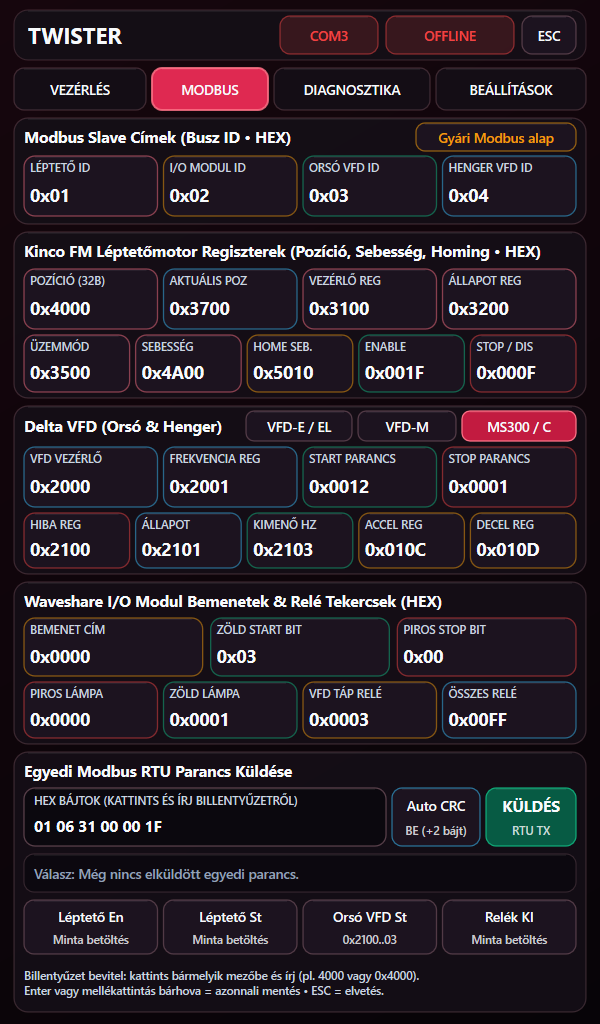
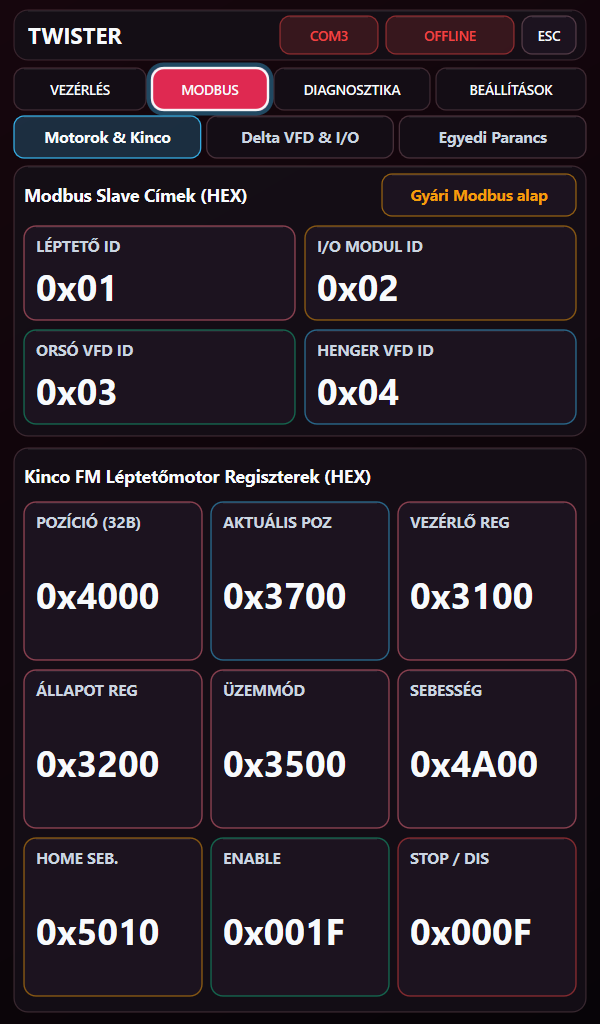
docs: publish README updates and screenshots

Changed region(s): [[0.0, 0.0625, 0.99, 1.0]]

diff --git a/README.md b/README.md
@@ -28,8 +28,18 @@ Nincs felugró képernyő-billentyűzet — közvetlenül a rendes billentyűzet
 3. **Mentéshez két lehetőséged van:**
    - Nyomd meg az **`Enter`** billentyűt, **VAGY**
    - **Kattints bárhová máshová a képernyőn** (egy másik dobozra, másik fülre vagy az üres háttérre).
-   - Mindkét esetben a program azonnal elmenti az új értéket a fájlba, újraszámolja a függő értékeket és kilép a szerkesztésből.
+   - Mindkét esetben **álló gépnél** a program azonnal elmenti az új értéket a fájlba, újraszámolja a függő értékeket és kilép a szerkesztésből.
+   - **Futó program közben** ugyanúgy átírhatsz bármilyen értéket és opciót — ilyenkor a felső sávban sárga **`ZÖLD = KÜLDÉS`** jelzés jelenik meg, és a gép biztonságosan megvárja a fizikai **Zöld gomb** megnyomását (amely RS-485 ütközés nélkül küldi ki és menti el az összes módosítást a futó gépre).
 4. **Mégse (`ESC`):** Ha írás közben **`ESC`**-et nyomsz, elveti a félbehagyott gépelést, és visszaáll a korábbi érték.
+
+### Egyszerűsített billentyűzetes navigáció (`Numpad 8 / 2 / 4 / 6 + Enter`)
+Érintőképernyő és egér mellett **mindig működik** a gyors irányított navigáció (akkor is, ha a NumLock be vagy ki van kapcsolva, vagy sima nyílbillentyűket használsz):
+- **`Numpad 8` (`↑`):** Lépés felfelé a következő gombra / mezőre / fülre.
+- **`Numpad 2` (`↓`):** Lépés lefelé.
+- **`Numpad 4` (`←`):** Lépés balra a sorban.
+- **`Numpad 6` (`→`):** Lépés jobbra a sorban.
+- **`Enter`:** Megnyomja a fehér-kék kerettel kijelölt gombot, átváltja a fület, vagy megnyitja a kijelölt paraméter szerkesztését.
+- **Érték beírása közben nincs ütközés:** amint **`Enter`**-rel (vagy érintéssel) beléptél egy számmezőbe, a **`Numpad 8 / 2 / 4 / 6`** normál számjegyként gépelődik be, az **`Enter`** elmenti és kilép, utána pedig rögtön újra navigálhatsz vele! *(A `PC KI` ablak megnyitásakor az alapértelmezett fókusz biztonságból mindig a `MÉGSE` gombon áll.)*
 
 ![Érték átírása közvetlenül billentyűzetről](docs/images/szerkesztes.png)
 
@@ -40,8 +50,9 @@ Nincs felugró képernyő-billentyűzet — közvetlenül a rendes billentyűzet
 | Elem | Mit mutat / Mit csinál ha rákattintasz? |
 | :--- | :--- |
 | **`TWISTER`** | A program neve. |
-| **`COM3`** *(port gomb)* | Zöld, ha a soros port sikeresen csatlakozva van; piros, ha nem érhető el. Rákattintva rögtön a **`BEÁLLÍTÁSOK`** oldalra ugrik, ahol portot választhatsz. |
-| **Állapotjelző doboz** | A gép pillanatnyi állapota:<br>• **`OFFLINE`** (piros): nincs nyitott soros port<br>• **`KÉSZENLÉT`** (sárga): áll a gép, várja az indítást<br>• **`INDÍTÁS...`** (sárga): relék kapcsolása, frekiváltók bebootolása és felpörgése<br>• **`ÜZEMEL`** (zöld): forognak a motorok és megy a léptetőmotor-ciklus<br>• **`LEÁLLÍTÁS`** (piros): motorok leállítása és léptető Home-ba küldése<br>• **`HIBA`** (piros): hiba történt (pl. port vagy meghajtó hiba — részletek a `DIAGNOSZTIKA` naplóban) |
+| **`COM3`** *(port gomb)* | Zöld, ha a soros port sikeresen csatlakozva van; piros, ha nem érhető el. Rákattintva rögtön a **`BEÁLLÍTÁSOK → Port & RS-485`** aloldalra ugrik, ahol portot választhatsz. |
+| **`ZÖLD = KÜLDÉS`** *(sárga jelző)* | Csak akkor jelenik meg, ha **futó program közben** módosítottál valamit a képernyőn. A fizikai **Zöld gomb** megnyomásáig várakozik a változtatások biztonságos kiküldésével. |
+| **Állapotjelző doboz** | A gép pillanatnyi állapota:<br>• **`OFFLINE`** (piros): nincs nyitott soros port<br>• **`KÉSZENLÉT`** (sárga): áll a gép, várja az indítást<br>• **`INDÍTÁS...`** (sárga): relék ellenőrzése/kapcsolása, frekiváltók bebootolása és felpörgése<br>• **`ÜZEMEL`** (zöld) / **`JÓVÁHAGYÁS?`** (sárga) / **`JÓVÁHAGYVA`** (zöld) / **`VÉGÉN LEÁLL`** (rózsaszín): forognak a motorok és megy a léptetőmotor-ciklus; **`Jóváhagyással`** módban a program vége előtti beállított időnél (`VILLOGÁS ELŐTTE`, alap `5 perc`) **`JÓVÁHAGYÁS?`** látható és villog a zöld lámpa<br>• **`JOG MÓD`** (kék): Piros + Zöld hosszú nyomva tartásával aktív lassú kézi/ellenőrző járatás<br>• **`LEÁLLÍTÁS`** (piros): motorok leállítása és léptető Home-ba küldése<br>• **`HIBA`** (piros): hiba történt (pl. port vagy meghajtó hiba — részletek a `DIAGNOSZTIKA` naplóban) |
 | **`ESC` / `FULL` gomb** | Vált teljes képernyős és ablakos mód között (ugyanazt csinálja, mint az `ESC` billentyű). |
 | **4 fő oldalválasztó fül** | **`VEZÉRLÉS`** • **`MODBUS`** • **`DIAGNOSZTIKA`** • **`BEÁLLÍTÁSOK`** — rákattintva azonnal oldalt vált (ha épp írtál egy mezőbe, előtte elmenti). |
 
@@ -51,13 +62,32 @@ Nincs felugró képernyő-billentyűzet — közvetlenül a rendes billentyűzet
 
 A program folyamatosan figyeli a gép **`0x02`** I/O modulján lévő fizikai Start és Stop gombokat:
 
-### Zöld gomb (`Start`) megnyomása:
-1. Kikapcsolja a piros jelzőlámpát (`0x0000`), felkapcsolja a zöld jelzőlámpát (`0x0001`).
-2. Áramot ad a frekiváltók főkontaktorára (`0x0003`).
-3. **Megvárja, míg a két Delta frekiváltó feléled** és hibamentes készenlétet jelez (`0x2100/0x2101`).
-4. Beírja a beállított felfutási és lefutási időket (ha `> 0 ms`), elküldi a kiszámolt célfrekvenciákat (`0x2001`), majd kiadja az indítás parancsot (`0x2000 = 0x0012`).
-5. **Megvárja, míg mindkét motor ténylegesen felpörög** a célfrekvenciára (`0x2103`).
-6. Csak ezután indítja el a Kinco léptetőmotor ciklusát (`0`-tól `4400` felé).
+### Zöld gomb (`Start / Módosítás küldés`) megnyomása:
+* **Ha áll a gép (`KÉSZENLÉT`):**
+  1. Kikapcsolja a piros jelzőlámpát (`0x0000`), felkapcsolja a zöld jelzőlámpát (`0x0001`).
+  2. **Ellenőrzi (`FC 0x01`)**, hogy a frekiváltók főkontaktora (`0x0003`) be van-e már kapcsolva: ha még ki van kapcsolva, bekapcsolja és megvárja a frekiváltók felállását; ha már áram alatt van, azonnal tovább lép.
+  3. **Ellenőrzi a két Delta frekiváltó hibamentes készenlétét** (`0x2100/0x2101`).
+  4. Beírja a beállított felfutási és lefutási időket (ha `> 0 ms`), elküldi a kiszámolt célfrekvenciákat (`0x2001`), majd kiadja az indítás parancsot (`0x2000 = 0x0012`).
+  5. **Megvárja, míg mindkét motor ténylegesen felpörög** a célfrekvenciára (`0x2103`).
+  6. Csak ezután indítja el a Kinco léptetőmotor ciklusát (`0`-tól `4400` felé).
+* **Ha fut a program (`ÜZEMEL` / `JÓVÁHAGYÁS?` villogás):**
+  - **Menet közbeni változtatások kiküldése:** ha menet közben átírtál fordulatszámot, sodratot, felfutást, léptetőt vagy bármely beállítást, a Zöld gomb egy rövid megnyomása elmenti és RS-485 ütközés nélkül rögtön kiküldi a változtatásokat a futó gépre.
+  - **Ciklus folytatásának jóváhagyása / elutasítása (`Jóváhagyással` mód):**
+    - Ha a **`BEÁLLÍTÁSOK → Működés & Ciklus`** aloldalon a `Ciklus végén:` beállítás **`Jóváhagyással`** állásban van, akkor amikor már kevesebb mint a **`VILLOGÁS ELŐTTE`** mezőben megadott perc *(alap: `5 perc`)* van hátra a menetből, a **zöld lámpa villogni kezd** (`JÓVÁHAGYÁS?`). *(Más `Ciklus végén` módokban — `Leáll (1:1)` és `Újraindul` — nem villog.)*
+    - **Következő ciklus jóváhagyása:** villogás közben a fizikai **Zöld gomb** megnyomásával hagyod jóvá, hogy a menet végén automatikusan elinduljon a következő ciklus (`JÓVÁHAGYVA`). Ezzel egyidőben a villogás megáll, a zöld lámpa folyamatosan világít, és az esetleges módosításokat is kiküldi.
+    - **Következő ciklus elutasítása (`-` billentyű):** ha a billentyűzeten megnyomod a **`-`** *(mínusz)* gombot *(kizárólag akkor, ha nem vagy szövegdoboz szerkesztésében és nincs nyitott megerősítő ablak)*, a gép elutasítja az újraindulást (`VÉGÉN LEÁLL`), a villogás megáll (folyamatosan zöld), majd az aktuális menet végén biztonságosan leáll.
+    - **Ha nem érkezik válasz a menet végéig:** ha megállásig villog a zöld és nem kaptál vissza visszajelzést, a gép biztonságból szintén leáll és Home-ba áll.
+
+### Piros + Zöld gomb egyszerre hosszan nyomva (`JOG mód`, `0x02`):
+A két fizikai nyomógomb együttes, kb. 0,6 másodperces nyomva tartásával aktiválható (beépített védelemmel, hogy a nyomógombok pár tizedmásodperces eltéréssel történő megnyomása vagy elengedése véletlenül se állítsa le a gépet):
+* **Amikor FUT a program:**
+  - **Mindkét jelzőlámpa (`Piros` + `Zöld`) egyszerre világít.**
+  - Az alsó gyűjtőorsó belassul a **`JOG ORSÓ`** beállítás szerinti fordulatra (alap: `300 RPM`), a felső adagoló hengert pedig az aktuális **sodratszámmal arányosan** automatikusan hozzá számolja és lelassítja.
+  - A léptetőmotor sebessége visszakapcsol az alap sebességre (`0x4A00` gyári/alap értékére).
+  - **Amint elengeded** a gombokat, a piros lámpa kialszik, minden motor arányosan **visszapörög** az üzemi fordulatra és a program pontosan onnan folytatódik tovább!
+* **Amikor NEM megy program (`KÉSZENLÉT`):**
+  - **Mindkét lámpa (`Piros` + `Zöld`) egyszerre világít.**
+  - Ellenőrzi (`FC 0x01`), be van-e kapcsolva a VFD tápkontaktor (`0x0003` — ha szükséges, bekapcsolja), majd **csakis az alsó gyűjtőorsó** forog a `JOG ORSÓ` (`300 RPM`) fordulaton, amíg a két gombot tartod. Elengedésre megáll, és visszaáll készenlétbe (piros lámpa).
 
 ### Piros gomb (`Stop`) megnyomása:
 1. Azonnal kiadja a leállítás parancsot mindkét Delta frekiváltónak (`0x2000 = 0x0001`).
@@ -114,60 +144,59 @@ A három fonalparaméter közül kettőt te adsz meg, a harmadikat a gép átté
 
 ---
 
-### 2. oldal: `MODBUS` *(Eszközök, címek és kézi parancsteszt)*
+### 2. oldal: `MODBUS` *(3 tágas aloldalra bontva)*
 
-![MODBUS beállítások és egyedi küldés](docs/images/modbus.png)
+Itt van összegyűjtve a gép összes Modbus-kódja **HEX** (hexadecimális) formában. A jobb olvashatóság és könnyű érintés érdekében 3 aloldalra van osztva:
 
-Itt van összegyűjtve a gép összes Modbus-kódja **HEX** (hexadecimális) formában. Bármelyik mezőre kattintva átírhatod (pl. `4000` vagy `0x4000` is működik, `Enter` vagy mellékattintás menti).
+#### Aloldal 1: `Motorok & Kinco`
 
-#### 1. kártya: `Modbus Slave Címek (Busz ID • HEX)`
-* **`LÉPTETŐ ID`** (alap: `0x01`): A Kinco FM léptetőmotor-hajtás buszcíme.
-* **`I/O MODUL ID`** (alap: `0x02`): A Waveshare 8 csatornás gomb/relé modul buszcíme.
-* **`ORSÓ VFD ID`** (alap: `0x03`): Az alsó gyűjtőorsót hajtó Delta frekiváltó címe.
-* **`HENGER VFD ID`** (alap: `0x04`): A felső adagoló hengert hajtó Delta frekiváltó címe.
-* **`Gyári Modbus alap` gomb** *(jobb felső narancs gomb)*: Egy kattintással visszaállítja az összes Modbus címet és kódot az eredeti alapértékre.
+![MODBUS Motorok és Kinco regiszterek](docs/images/modbus.png)
 
-#### 2. kártya: `Kinco FM Léptetőmotor Regiszterek`
-* **`POZÍCIÓ (32B)`** (`0x4000`): Ide írja a célpozíciót (32 bites szám).
-* **`AKTUÁLIS POZ`** (`0x3700`): Innen olvassa ki a motor tényleges, valós idejű pozícióját mozgás közben.
-* **`VEZÉRLŐ REG`** (`0x3100`): Vezérlőregiszter (indítás / megállítás).
-* **`ÁLLAPOT REG`** (`0x3200`): Statusword (ebből tudja a program, hogy a motor még mozog, célba ért, vagy hibát jelez).
-* **`ÜZEMMÓD`** (`0x3500`): Pozíció mód (`1`) és Homing mód (`6`) közti váltás.
-* **`SEBESSÉG`** (`0x4A00`): A munka közbeni mozgási sebesség regisztere.
-* **`HOME SEB.`** (`0x5010`): A Home-ra (végállás-keresésre) állított sebesség regisztere (CiA-402 módban).
-* **`ENABLE`** (`0x001F`): Parancsszó, ami elindítja a beírt pozícióra a mozgást.
-* **`STOP / DIS`** (`0x000F`): Parancsszó, ami leállítja/nyugtázza a léptetés indítóját.
+Bármelyik mezőre kattintva közvetlenül átírhatod billentyűzetről (pl. `3100` vagy `0x3100` is működik, `Enter` vagy mezőn kívüli koppintás menti).
 
-#### 3. kártya: `Delta VFD (Orsó & Henger)`
-* **Gyorsválasztó gombok a fejlécben** *(kiválasztott = piros keret)*:
-  - **`VFD-E / EL`**: Beállítja az `ACCEL REG = 0x0109` és `DECEL REG = 0x010A` címeket (`Pr.01.09 / 01.10`).
-  - **`VFD-M`**: Beállítja az `ACCEL REG = 0x010A` és `DECEL REG = 0x010B` címeket (`Pr.10 / Pr.11`).
-  - **`MS300 / C`**: Beállítja az `ACCEL REG = 0x010C` és `DECEL REG = 0x010D` címeket (`Pr.01-12 / 01-13`).
-  *(Válaszd ki azt, amelyik széria a gépedben van, hogy a fel- és lefutás a jó helyre íródjon!)*
-* **`VFD VEZÉRLŐ`** (`0x2000`): Start/Stop vezérlőregiszter.
-* **`FREKVENCIA REG`** (`0x2001`): Ide írja a kiszámolt célfrekvenciát (`0,01 Hz`-es léptékben).
-* **`START PARANCS`** (`0x0012`): Előre forgás indítása.
-* **`STOP PARANCS`** (`0x0001`): Lassított megállítás parancs.
-* **`HIBA REG`** (`0x2100`): Hibakód olvasása (`0` = hibamentes).
-* **`ÁLLAPOT`** (`0x2101`): Üzemállapot olvasása (áll, lassul, készenlét, üzemel).
-* **`KIMENŐ HZ`** (`0x2103`): A motorra kiadott tényleges kimeneti frekvencia olvasása.
-* **`ACCEL REG`** / **`DECEL REG`**: A felfutási és lefutási idő paraméter-regisztere (`0,1 mp` egységben).
+* **`Modbus Slave Címek (HEX)`:**
+  - **`LÉPTETŐ ID`** (alap: `0x01`): A Kinco FM léptetőmotor-hajtás buszcíme.
+  - **`I/O MODUL ID`** (alap: `0x02`): A Waveshare 8 csatornás gomb/relé modul buszcíme.
+  - **`ORSÓ VFD ID`** (alap: `0x03`): Az alsó gyűjtőorsót hajtó Delta frekiváltó címe.
+  - **`HENGER VFD ID`** (alap: `0x04`): A felső adagoló hengert hajtó Delta frekiváltó címe.
+  - **`Gyári Modbus alap` gomb** *(narancs gomb)*: Visszaállítja az összes Modbus címet és kódot az eredeti alapértékre.
+* **`Kinco FM Léptetőmotor Regiszterek (HEX)` (`3×3` nagy gomb):**
+  - **`POZÍCIÓ (32B)`** (`0x4000`): Célpozíció (32 bites szám).
+  - **`AKTUÁLIS POZ`** (`0x3700`): Valós idejű aktuális pozíció kiolvasása.
+  - **`VEZÉRLŐ REG`** (`0x3100`): Vezérlőregiszter (indítás / megállítás).
+  - **`ÁLLAPOT REG`** (`0x3200`): Statusword (célba érés, mozgás, hiba).
+  - **`ÜZEMMÓD`** (`0x3500`): Pozíció mód (`1`) és Homing mód (`6`) közti váltás.
+  - **`SEBESSÉG`** (`0x4A00`): A munka közbeni mozgási sebesség regisztere.
+  - **`HOME SEB.`** (`0x5010`): Homing keresési sebesség (CiA-402 módban).
+  - **`ENABLE`** (`0x001F`): Parancsszó a mozgás indításához.
+  - **`STOP / DIS`** (`0x000F`): Parancsszó a léptető megállításához.
 
-#### 4. kártya: `Waveshare I/O Modul Bemenetek & Relé Tekercsek`
-* **`BEMENET CÍM`** (`0x0000`): A digitális bemenetek (nyomógombok) kezdőcíme.
-* **`ZÖLD START BIT`** (`0x03`): Ez a bemeneti érték indítja el a gépet (`IN0 + IN1` aktív).
-* **`PIROS STOP BIT`** (`0x00`): Ez a bemeneti érték jelenti a Stop gombot (vagy relé bontását).
-* **`PIROS LÁMPA`** (`0x0000`): Piros jelzőlámpa relé kimenete.
-* **`ZÖLD LÁMPA`** (`0x0001`): Zöld jelzőlámpa relé kimenete.
-* **`VFD TÁP RELÉ`** (`0x0003`): A két frekiváltó tápkontaktorát kapcsoló relé.
-* **`ÖSSZES RELÉ`** (`0x00FF`): Az összes kimeneti relé együttes lekapcsolása (Vészstophoz).
+#### Aloldal 2: `Delta VFD & I/O`
 
-#### 5. kártya: `Egyedi Modbus RTU Parancs Küldése`
-Szervizhez, próbaküldéshez:
-* **`HEX BÁJTOK` mező:** Kattints bele és írj be szóközökkel (vagy kötőjellel) tagolt bájtokat, pl. `01 06 31 00 00 1F`.
-* **`Auto CRC` / `Kézi CRC` gomb:** Ha `BE`, automatikusan hozzászámolja a 2 bájtos Modbus CRC-16 ellenőrző összeget küldéskor; ha `KI`, pontosan azt küldi ki, amit beírtál.
-* **`KÜLDÉS` (`RTU TX`) gomb:** Kiküldi a parancsot a soros portra, a **`Válasz:`** sorban pedig azonnal megjelenik a nyers válasz vagy hibaüzenet.
-* **4 minta-gomb alul:** **`Léptető En`**, **`Léptető St`**, **`Orsó VFD St`**, **`Relék KI`** — egy kattintással beírják a megfelelő parancsot a felső mezőbe (az aktuális Slave ID-kkel!). Innen a `KÜLDÉS`-sel rögtön tesztelheted.
+![MODBUS Delta VFD és Waveshare I/O](docs/images/modbus_vfd.png)
+
+* **`Delta VFD Regiszterek (Orsó & Henger • HEX)`:**
+  - **Gyorsválasztó gombok a fejléc alatt** *(kiválasztott = piros)*:
+    - **`VFD-E / EL`**: Beállítja az `ACCEL REG = 0x0109` és `DECEL REG = 0x010A` címeket (`Pr.01.09 / 01.10`).
+    - **`VFD-M`**: Beállítja az `ACCEL REG = 0x010A` és `DECEL REG = 0x010B` címeket (`Pr.10 / Pr.11`).
+    - **`MS300 / C`**: Beállítja az `ACCEL REG = 0x010C` és `DECEL REG = 0x010D` címeket (`Pr.01-12 / 01-13`).
+  - **`VFD VEZÉRLŐ`** (`0x2000`), **`FREKVENCIA REG`** (`0x2001`), **`START PARANCS`** (`0x0012`), **`STOP PARANCS`** (`0x0001`), **`HIBA REG`** (`0x2100`), **`ÁLLAPOT`** (`0x2101`), **`KIMENŐ HZ`** (`0x2103`), **`ACCEL REG`** / **`DECEL REG`**.
+* **`Waveshare I/O Bemenetek & Relék (HEX)` (`4×2` nagy gomb):**
+  - **`BEMENET CÍM`** (`0x0000`): Digitális bemenetek kezdőcíme.
+  - **`ZÖLD START BIT`** (`0x03`): Indítás / módosítás kiküldése / ciklus jóváhagyása (`IN0=1, IN1=1`).
+  - **`PIROS STOP BIT`** (`0x00`): Stop gomb (`IN0=0, IN1=0`).
+  - **`JOG BIT (P+Z)`** (`0x02`): Piros + Zöld hosszú gombkombináció (`IN0=0, IN1=1`).
+  - **`PIROS LÁMPA`** (`0x0000`), **`ZÖLD LÁMPA`** (`0x0001`), **`VFD TÁP RELÉ`** (`0x0003`), **`ÖSSZES RELÉ`** (`0x00FF`).
+
+#### Aloldal 3: `Egyedi Parancs`
+
+![MODBUS Egyedi RTU parancs küldése](docs/images/modbus_egyedi.png)
+
+Szervizhez, közvetlen Modbus RTU próbaküldéshez:
+* **`HEX BÁJTOK` mező:** Kattints bele és írj be szóközökkel vagy kötőjellel tagolt bájtokat, pl. `01 06 31 00 00 1F`.
+* **`Auto CRC-16: BE` / `Kézi CRC: KI`:** Automatikusan hozzáteszi a 2 CRC-16 ellenőrző bájtot vagy nyersen küldi ki.
+* **`KÜLDÉS (RTU TX)` gomb:** Azonnal kiküldi a keretet, alatta pedig a **`Modbus válasz:`** dobozban látszik a nyers válasz vagy hiba.
+* **`Gyors Minta Parancsok` (`2×2`):** `Léptető Enable`, `Léptető Állapot`, `Orsó VFD Állapot`, `Összes Relé KI`.
 
 ---
 
@@ -202,74 +231,64 @@ A 8 optocsatolt bemenet állapota valós időben (zöld = bemenet aktív/zárt, 
 
 ---
 
-### 4. oldal: `BEÁLLÍTÁSOK` *(Minden paraméter és működési opció)*
+### 4. oldal: `BEÁLLÍTÁSOK` *(3 tágas aloldalra bontva)*
 
-![BEÁLLÍTÁSOK oldal](docs/images/beallitasok.png)
+A kényelmes, nagy gombos érintéshez minden paraméter 3 átlátható aloldalon kapott helyet:
 
-#### Felső kártya: `Soros Port & RS-485 Ütközésvédelem`
-* **`Portok friss.` gomb:** Újra beolvassa a Windows-ban jelenleg csatlakoztatott COM portokat.
-* **`Újracsatl.` gomb:** Lezárja és újranyitja a kiválasztott soros portot.
-* **COM port gombok (`COM3`, `COM1`, ...):** Kattintással kiválasztható a használt RS-485 átalakító portja (`Aktív` = zöld, ha él a kapcsolat).
-* **`Léptető (0x4000) sorrend:` `Kinco CDAB` vs `Big-Endian ABCD`:**
-  - A 32-bites pozíciószám két regiszterének sorrendje. **Kinco FM**-hez a **`Kinco CDAB` (Low-Word First)** a gyári beállítás (ez megegyezik az eredeti C# program sorrendjével).
-* **RS-485 busz védelmi mezők (ütközések ellen):**
-  - **`RS-485 SZÜNET` (`15 ms`):** Ennyi kötelező csendet tart két Modbus üzenet között, hogy az egyik eszköz adása garantáltan befejeződjön, mielőtt a következő elkezdődik.
-  - **`VÁLASZ TIMEOUT` (`120 ms`):** Legfeljebb ennyi ideig vár egy eszköz válaszára, mielőtt továbbmegy vagy újrapróbálja.
-  - **`ÚJRAPRÓBÁLKOZÁS` (`2 db`):** Ha zavar miatt kimarad vagy hibás CRC-vel érkezik vissza egy válasz, ennyiszer küldi újra automatikusan.
+#### Aloldal 1: `Léptető & VFD`
 
-#### Középső kártya: `Léptető, Delta VFD & Állapotgép beállítások`
-* **`Gyári alapértékek` gomb** *(jobb felső narancs gomb)*: Visszaállítja az alábbi összes gépbeállítást a biztos, bevált alapokra (a `MODBUS` oldal címeit békén hagyja!).
+![BEÁLLÍTÁSOK Léptető és VFD paraméterek](docs/images/beallitasok.png)
 
-##### Paraméterdobozok:
-1. sor:
-* **`LÉPTETŐ LÉPÉS` (`400 offset`):** Minden ciklusban ennyit lép a motor a cél (`4400` felső határ) felé. Mindig nagyobbnak kell lennie, mint a `FEL-LÉPÉS (+)`!
-* **`LÉPÉS SEBESSÉG` (`0 = alap`):** A léptetőmotor munkasebessége (`0x4A00` regiszter). Ha `0`, nem írja felül a hajtásban tárolt belső sebességet (ugyanúgy, mint a régi programban). Ha `> 0`, elküldi az új sebességet.
-* **`FELSŐ HATÁR` (`4400 poz`):** Meddig menjen fel a léptetőmotor (`0`-tól `4400`-ig; háttérben `-4400`-ként kezeli).
+* **`Gyári alapértékek` gomb** *(jobb felső narancs gomb)*: Visszaállítja az összes gépbeállítást a biztos alapokra *(a `MODBUS` oldal címeit békén hagyja)*.
+* **`Léptetőmotor & JOG Beállítások` (`4×2` nagy csempe):**
+  - **`LÉPTETŐ LÉPÉS`** (`400 offset`): Ennyit lép a motor minden ciklusban a cél felé. Nagyobbnak kell lennie, mint a `FEL-LÉPÉS (+)`!
+  - **`FEL-LÉPÉS (+)`** (`200 +`): Ennyit mozdul vissza minden lépés elején. A nettó haladás = `LÉPTETŐ LÉPÉS - FEL-LÉPÉS (+)` (`200`, így `4400 / 200 + 1 = 23` lépés).
+  - **`FELSŐ HATÁR`** (`4400 poz`): Meddig menjen fel a szán (`0`-tól `4400`-ig).
+  - **`JOG ORSÓ`** (`300 RPM`): Piros + Zöld hosszú nyomva tartásakor az alsó gyűjtőorsó cél fordulatszáma *(futás közben ehhez számolja arányosan a felső hengert is)*.
+  - **`LÉPÉS SEBESSÉG`** (`0 = alap`): Munkasebesség (`0x4A00`; `0` = hajtás alapértéke).
+  - **`HOME SEBESSÉG`** (`0 = alap`): Home visszaállási sebesség (`0` = alapérték).
+  - **`MAX LÉPÉSIDŐ`** (`15000 ms`) *(vagy `FIX VÁRAKOZÁS` ki-kapcsolt állapotgépnél)*: Egyetlen lépés max. várakozási ideje.
+  - **`HOME TARTALÉK`** (`6000 ms`): Home mozgás max./tartalék ideje.
+* **`Delta VFD Fel- és Lefutási Idők (ms)` (`2×2` nagy csempe):**
+  - **`ORSÓ FELFUTÁS` / `ORSÓ LEFUTÁS`** (`2000 ms`): Alsó orsó fel- és lefutási ideje (`0 = VFD alap`).
+  - **`HENGER FELFUTÁS` / `HENGER LEFUTÁS`** (`2000 ms`): Felső henger fel- és lefutási ideje (`0 = VFD alap`).
 
-2. sor:
-* **`FEL-LÉPÉS (+)` (`200 +`):** Ennyit mozdul vissza ellentétes irányba minden lépés elején. A nettó haladás ciklusonként = `LÉPTETŐ LÉPÉS - FEL-LÉPÉS (+)` (tehát `400 - 200 = 200`, így lesz `4400 / 200 + 1 = 23` lépés).
-* **`HOME SEBESSÉG` (`0 = alap`):** Külön sebesség beállítás a Home-ra (visszaállásra). `0` esetén nem módosítja a sebességet; `> 0` esetén `CiA-402` módban a `0x5010` homing regiszterbe, `Pozíció 0` módban a `0x4A00`-ba írja a visszaállás idejére.
-* **`MAX LÉPÉSIDŐ` (`15000 ms`)** *(vagy `FIX VÁRAKOZÁS` ha az állapotgép ki van kapcsolva)*: Legfeljebb ennyit vár egyetlen lépés befejezésére állapotgép módban, mielőtt továbbmegy.
-* **`HOME TARTALÉK` (`6000 ms`):** Max/tartalék várakozási idő a Home mozgás befejezésére.
+#### Aloldal 2: `Működés & Ciklus`
 
-3. sor (Delta Frekiváltók fel- és lefutása):
-* **`ORSÓ FELFUTÁS` (`2000 ms`):** Mennyi idő alatt pörögjön fel az alsó gyűjtőorsó `0`-ról a célfordulatra (Delta `0,1 mp` egységbe átszámolva, pl. `2000 ms = 2,0 mp`; ha `0`, marad a frekiváltón beállított idő).
-* **`ORSÓ LEFUTÁS` (`2000 ms`):** Mennyi idő alatt álljon meg az alsó gyűjtőorsó (`0 = VFD alap`).
-* **`HENGER FELFUTÁS` (`2000 ms`):** Mennyi idő alatt pörögjön fel a felső adagoló henger (`0 = VFD alap`).
-* **`HENGER LEFUTÁS` (`2000 ms`):** Mennyi idő alatt álljon meg a felső adagoló henger (`0 = VFD alap`).
+![BEÁLLÍTÁSOK Működés, Jóváhagyás és Visszafutás](docs/images/beallitasok_visszafele.png)
 
-##### Fő kapcsolók:
-* **`Léptető állapotgép (0x3200): BE / KI`:**
-  - **`BE` (ajánlott):** Folyamatosan kérdezi a Kinco meghajtótól a `0x3200` (célba érés) és `0x3700` (tényleges pozíció) regisztert, és amint odaért a motor, azonnal folytatja (nincs felesleges várakozás). Ha nem kap választ a meghajtótól, automatikusan átvált a `Tartalék lépésidő`-re.
-  - **`KI`:** Fixen kivárja a beállított időzítést (`FIX VÁRAKOZÁS`).
-* **`VFD állapotgép (0x2101): BE / KI`:**
-  - **`BE` (ajánlott):** Tápbekapcsolás után megvárja a frekiváltók tényleges beindulását, Start után ellenőrzi, hogy elérték-e a célfordulatot, leállításkor pedig megvárja, míg `0 Hz`-re lelassulnak.
-  - **`KI`:** Fix időzítésekkel vár a kontaktor és a Start után.
-* **`Home leállításkor: BE / KI`:** Ha `BE`, a piros Stop gomb (vagy a ciklus végi automatikus leállás) előbb visszaküldi a léptetőt Home-ba, és csak utána tiltja le.
-* **`Home mód: Pozíció 0` vs `CiA-402 (0x3500)`:**
-  - **`Pozíció 0` (biztonságos alapértelmezett):** Egyszerűen visszavezényli a motort a `0` pozícióra (`0x4000 = 0`).
-  - **`CiA-402 (0x3500)`:** Átkapcsolja a Kinco drivert gyári Homing módba (`0x3500 = 6`), megkeresteti a végálláskapcsolót (`0x5010` sebességgel), majd visszavált Pozíció módba (`1`). *(Csak akkor válaszd ezt, ha a hajtásban a végálláskapcsoló és Homing Method fel van tanítva!)*
-* **`Teljes képernyőn indul: BE / KI`:** Eldönti, hogy a program indításakor egyből teljes képernyős legyen-e.
-* **`Tartalék lépésidő: 3000 ms`:** Rákattintva közvetlenül átírható. Akkor használja a léptetővezérlő tartalékként, ha a `0x3200` állapotjelzés nem érkezne meg a hajtásról.
-* **`Modbus Kódok & Kereső →` gomb:** Gyors átugrás a `MODBUS` oldalra.
+* **`Állapotgép, Home & Kijelző` (`3×2` kapcsoló):**
+  - **`Léptető állapotgép (0x3200): BE / KI`:** `BE` esetén `0x3200` + `0x3700` figyelés, válaszkimaradáskor automatikus váltás `Tartalék lépésidő`-re.
+  - **`VFD állapotgép (0x2101): BE / KI`:** `BE` esetén tényleges beindulás, célfordulat-elérés és `0 Hz` lefutás figyelése.
+  - **`Home leállításkor: BE / KI`:** Leállításkor előbb Home-ba küldi a léptetőt.
+  - **`Home mód: Pozíció 0` vs `CiA-402 (0x3500)`:** Pozíció nullázás (`0x4000=0`) vagy végálláskereső homing (`0x3500=6`).
+  - **`Teljes képernyőn indul: BE / KI`:** Automatikus fullscreen indításkor.
+  - **`Tartalék lépésidő: 3000 ms`:** Rákattintva szerkeszthető tartalék várakozási idő, ha `0x3200` nem válaszol.
+* **`Ciklus Vége, Jóváhagyás & Visszafutás`:**
+  - **`Ciklus végén (felső határ elérésekor):` (3 nagy gomb):**
+    1. **`Leáll (1:1)`** *(zöld)*: 1 menet után biztonságosan leáll + Home. *(Zöld lámpa nem villog.)*
+    2. **`Újraindul`** *(sárga)*: Automatikusan, megállás nélkül folytatja a következő ciklust a lenti mód szerint, amíg le nem állítod. *(Zöld lámpa nem villog.)*
+    3. **`Jóváhagyással`** *(kék)*: Menet közben megkérdezi a gépkezelőt! Az utolsó **`VILLOGÁS ELŐTTE`** percben **`JÓVÁHAGYÁS?`** jelzéssel **villogni kezd a zöld lámpa**:
+       - **Zöld gomb (`Start / Jóváhagyás`):** jóváhagyja a következő ciklus indulását (`JÓVÁHAGYVA`, folyamatosan zöldre vált).
+       - **`-` billentyű** *(szerkesztésen és felugró ablakon kívül)*: elutasítja az újraindulást (`VÉGÉN LEÁLL`, nem villog tovább, és a menet végén leáll).
+       - **Nincs válasz a menet végéig:** ha megállásig villog és nincs jelzés, a gép szintén leáll.
+  - **`VILLOGÁS ELŐTTE` (`5 perc`):** Állítható küszöbidő (`1..120 perc`), hogy a program vége előtt hány perccel kezdjen el villogni a zöld lámpa `Jóváhagyással` módban.
+  - **`Újraindulás módja:`** *(`Újraindul` és `Jóváhagyással` módban is aktív)*:
+    - **`Nulláról indul`:** Eléri a `4400`-at, majd visszatér `0`-ra és elölről kezdi.
+    - **`Visszafelé indul`:** Nem ugrik vissza `0`-ra, hanem fentről lefelé bontva visszafelé tekercsel.
+  - **`Visszafutás célja:`** *(`Visszafelé indul` alatt aktív)*:
+    - **`Teljesen nulláig` (`0`):** `0 ↔ 4400` teljes oda-vissza ciklus.
+    - **`Középpontig` (`2200`):** Első menetben `0 → 4400`, utána folyamatosan **`2200 ↔ 4400`** között jár oda-vissza.
 
-##### `Ciklus végén` és a több algombos visszafutás-választó:
-* **`Ciklus végén: Leáll (1:1)` / `Újraindul`:**
-  - **`Leáll (1:1)`** *(zöld)*: Ha a szán eléri a `4400`-as határt, leállítja a gépet, Home-ba küldi a motort és visszavált készenlétbe. *(Az alatta lévő két algombsor ilyenkor inaktív.)*
-  - **`Újraindul`** *(sárga)*: Nem áll le a `4400`-nál, hanem folyamatosan tovább dolgozik a beállított mód szerint, amíg meg nem nyomod a Stop-ot vagy Vészstop-ot! Ekkor aktiválódik alatta a **2 soros algomb-választó**:
-    1. **`Újraindulás módja:`**
-       - **`Nulláról indul`:** Eléri a `4400`-at, majd rögtön visszatér és újra `0`-tól `4400`-ig fut végig.
-       - **`Visszafelé indul`:** Amikor elérte a `4400`-at, **nem ugrik vissza**, hanem szépen lépésről lépésre visszafelé tekercsel lefelé!
-    2. **`Visszafutás célja:`** *(akkor aktív, ha `Visszafelé indul` van kiválasztva)*:
-       - **`Teljesen nulláig (0)`:** `0 → 4400 → 0 → 4400 ...` folyamatos teljes oda-vissza ciklus.
-       - **`Középpontig (2200)`:** Első menetben felmegy `0 → 4400`-ig, utána visszafelé **csak a felső határ feléig (`2200`-ig)** megy vissza, és innentől **`2200 ↔ 4400`** között dolgozik oda-vissza folyamatosan!
+#### Aloldal 3: `Port & RS-485`
 
-![Ciklus végén algombos visszafutás választó](docs/images/beallitasok_visszafele.png)
+![BEÁLLÍTÁSOK Soros Port és RS-485](docs/images/beallitasok_port.png)
 
----
-
-#### Alsó kártya: `Képletek & Aktív Busz Paraméterek`
-Csak tájékoztató áttekintő doboz: egyetlen pillantással látszanak benne az aktuális `MODBUS` fülről származó főbb címek (`Orsó`, `Henger`, `Kinco Poz/Akt/HomeSeb`, `Delta VFD Acc/Dec`), valamint az aktív COM port.
+* **`Portok frissítése` / `Újracsatlakozás most`:** Windows COM port lista újraolvasása és busz újracsatlakoztatása.
+* **`COM3 / COM1 / ...` (`2×2` nagy portgomb):** Aktív RS-485 adapter kiválasztása (`zöld = Aktív`).
+* **`Kinco CDAB (Low First)` vs `ABCD Big-Endian`:** 32-bites léptető pozícióregiszterek szó-sorrendje (`Kinco FM`-hez `CDAB` az alapértelmezett).
+* **`RS-485 SZÜNET` (`15 ms`) / `VÁLASZ TIMEOUT` (`120 ms`) / `ÚJRAPRÓBÁLKOZÁS` (`2 db`):** Ütközésvédelem és automatikus csomag-újraküldés beállításai.
+* **`Modbus Kódok & Kereső megnyitása →`:** Egygombos átugrás a `MODBUS` fülre.
 
 ---
 
